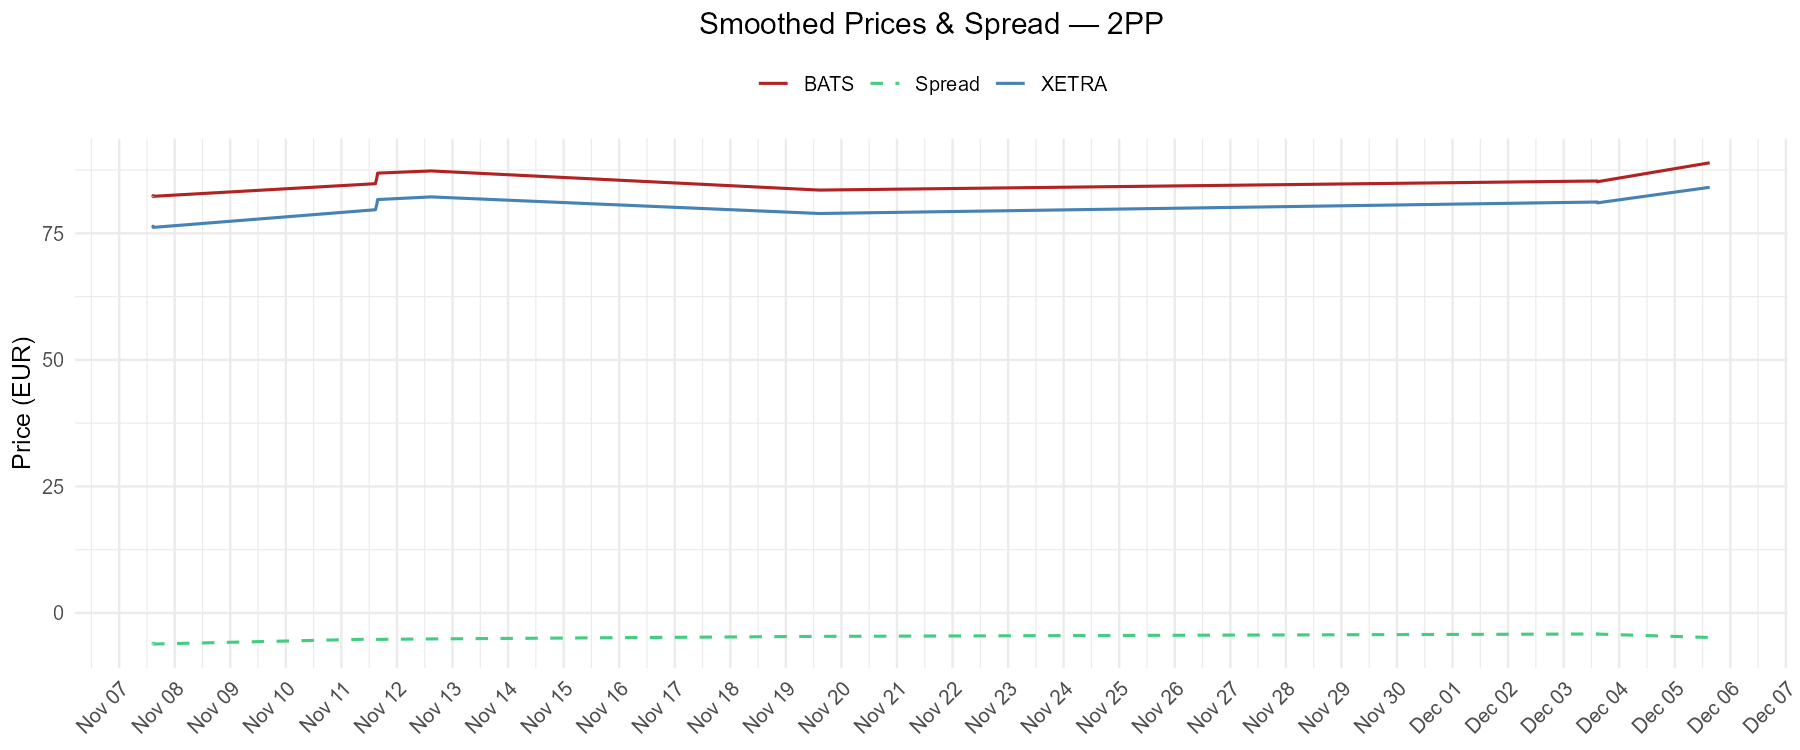
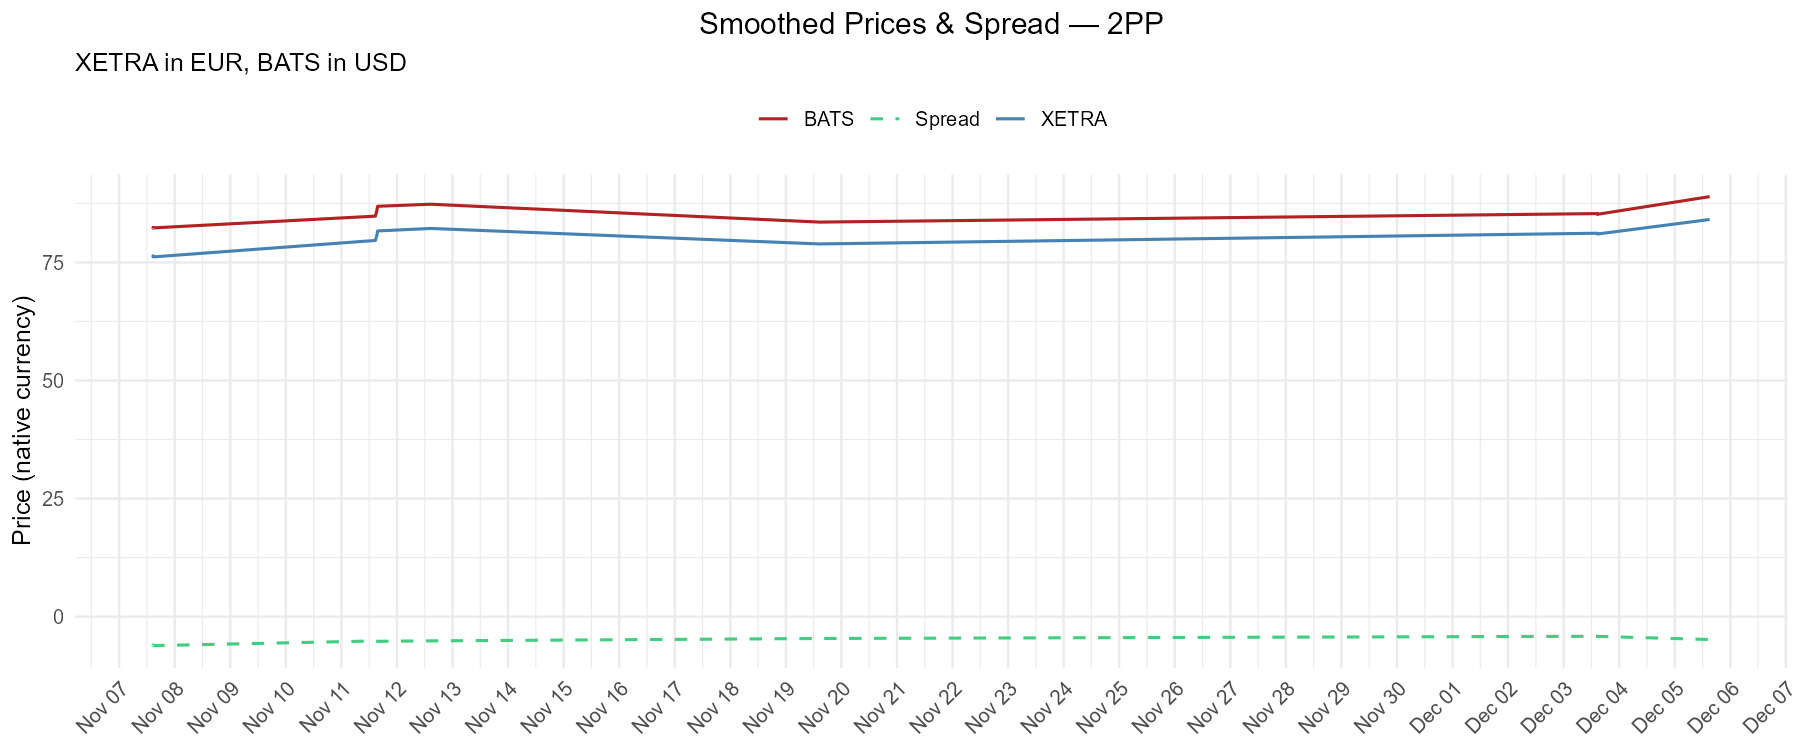
Reframe as cross-Atlantic XETRA vs Cboe BZX; correct currency labels

diff --git a/README.md b/README.md
@@ -1,33 +1,39 @@
-# Cross-Exchange Price Discovery: XETRA vs BATS Europe
+# Cross-Atlantic Price Discovery: XETRA vs BATS
 
 Empirical application of Pascual, Pascual-Fuster & Climent (2006), *"Cross-listing, price discovery and the informativeness of the trading process,"* Journal of Financial Markets, 9(2), 144–161.
+
+The data here pairs **XETRA (Frankfurt, EUR-quoted)** with **Cboe BZX — "US BATS" — (USD-quoted)** for six dual-listed stocks. The two venues only trade simultaneously during the US open, so the analysis is restricted to that overlap window.
 
 ---
 
 ## What the paper asks
 
-When the same stock trades on two markets simultaneously — say, Tesla on Frankfurt's XETRA and on BATS Europe — which venue leads price discovery? Does the European exchange set the price that the other venue follows, or does information flow the other way?
+When the same stock trades on two markets — e.g. Tesla on Frankfurt's XETRA and on a US venue like Cboe BZX — which venue leads price discovery during the overlap? Does the European exchange set the price that the US venue follows, or does information flow the other way?
 
-Pascual et al. build on Hasbrouck's (1995) information-share framework to separate two sources of cross-market information asymmetry: shocks that originate *from trading* (informed investors choosing where to execute) and shocks that are *trade-unrelated* (public news, macro announcements). Their empirical counterpart is a Vector Error Correction model that explicitly identifies the unexpected, informative component of each venue's order flow.
+Pascual et al. study NYSE-listed Spanish stocks that also trade on the Spanish SSE and find that, despite NYSE's much larger volume, the SSE contributes 12–30% of price discovery while the NYSE listing has almost no informative trades. They build on Hasbrouck's (1995) information-share framework and separate two sources of cross-market information asymmetry: shocks that originate *from trading* (informed investors choosing where to execute) and shocks that are *trade-unrelated* (public news, macro announcements). Their empirical counterpart is a Vector Error Correction model that explicitly identifies the unexpected, informative component of each venue's order flow.
 
 The key insight is that a market can have high quoting activity and still contribute nothing to price discovery — what matters is whether its *trades* carry information. A pure satellite market has an uninformative trading process: prices there adjust to the dominant venue rather than the other way around.
 
 > "A pure satellite market has an uninformative trading process that cannot shed light on the interpretation of public information."
 > — Pascual, Pascual-Fuster & Climent (2006), p. 146
 
+This project replicates the spirit of that question for a different cross-listing pattern: US-headquartered stocks (plus SAP) traded on both XETRA in Frankfurt and Cboe BZX in the US, observed at 30-second resolution.
+
 ---
 
 ## What this project does
 
-- Loads 30-second OHLCV bars from XETRA and BATS Europe for six dual-listed stocks (Tesla/TL0, Microsoft/MSF, Amazon/AMZ, SAP, NVIDIA/NVD, PayPal/2PP) over a one-month window (November–December 2024).
-- Finds the common trading window across all 12 data files and aligns each series to a complete 30-second timestamp grid.
+- Loads 30-second OHLCV bars from XETRA (EUR) and Cboe BZX / US BATS (USD) for six dual-listed stocks: Tesla (XETRA: TL0 / BATS: TSLA), Microsoft (MSF / MSFT), Amazon (AMZ / AMZN), NVIDIA (NVD / NVDA), PayPal (2PP / PYPL), and SAP (SAP / SAP).
+- Finds the common trading window across all 12 data files (~Oct 31 – Dec 9, 2024) and aligns each series to a complete 30-second timestamp grid.
 - Labels bars by trading session: European-only (07:00–12:00 UTC), Pre-US Open (12:00–14:30 UTC), and US Open (14:30–21:00 UTC). Analysis is restricted to the US Open overlap where both venues trade simultaneously.
-- Computes mean price deviations (XETRA − BATS) per session with error bars.
+- Computes mean price deviations (XETRA − BATS) per session.
 - Runs ADF stationarity tests on price levels to confirm prices are I(1).
 - Tests for cointegration via Engle-Granger (residual ADF) and Johansen trace test, and documents the results honestly — including that Johansen fails to reject H₀ at standard lags for this data.
 - Runs Granger causality tests (lag 5 = 2.5 minutes) in both directions for all six pairs.
 - Produces scatter plots and smoothed time-series plots of prices and spreads across the full window.
 - Fits VAR models (AIC lag selection) on log returns and reports residual correlations and R² by venue.
+
+> **A note on currency.** XETRA prices are in EUR; BATS prices are in USD. The script does not convert to a common currency, so any test or statistic computed on **price levels** (the mean deviation, Engle-Granger, Johansen, Granger on levels) is implicitly absorbing the EUR/USD exchange rate. The **log-return** results in Sections 9–10 are scale-invariant and unaffected by this — they are the primary results of the project; the level-based tests are reported as descriptive complements.
 
 ---
 
@@ -37,7 +43,7 @@ The key insight is that a market can have high quoting activity and still contri
 
 ![Mean price deviations](figures/mean_price_deviations.png)
 
-All deviations are negative during the US Open: XETRA prices are systematically below BATS prices for all six stocks, ranging from −4.7 EUR (PayPal) to −22.4 EUR (Microsoft). The magnitudes reflect absolute price-level differences between the two venues rather than a pure arbitrage signal — both platforms price the same underlying in EUR, but at slightly different levels, consistent with fragmented liquidity and asynchronous quote updates across venues.
+All deviations are negative during the US Open: the EUR-quoted XETRA close is systematically below the USD-quoted BATS close, ranging from about −5 (PayPal) to −22 (Microsoft). Roughly 5–6% of the price level, which is essentially the EUR/USD differential in late 2024 (~$1.05/€). The "deviation" here is therefore **not** a microstructure signal — it is dominated by the unit mismatch. It is shown as a sanity check on the alignment, not as a price-discovery result.
 
 ### ADF stationarity tests
 
@@ -49,38 +55,46 @@ Price levels are non-stationary (high p-values, fail to reject H₀) for all sto
 
 ![Granger causality](figures/granger_causality.png)
 
-Key findings at lag 5 (= 2.5 minutes, tested on price levels):
+Key findings at lag 5 (= 2.5 minutes), tested on price levels:
 
 | Stock | XETRA → BATS | BATS → XETRA | Interpretation |
 |-------|:---:|:---:|----------------|
 | MSF (Microsoft) | ✓ p = 0.029 | ✓ p = 0.007 | Bidirectional |
 | TL0, NVD, SAP, AMZ, 2PP | — | — | No significant lead |
 
-Microsoft is the only pair with detectable Granger causality at the 5% level, and it runs in both directions — price movements on either venue carry predictive information for the other over a 2.5-minute horizon. The remaining five stocks show no significant lead-lag relationship at this frequency when tested on price levels.
+Microsoft is the only pair with detectable Granger causality on price levels at the 5% level, and it runs in both directions over a 2.5-minute horizon. The remaining five stocks show no significant lead-lag relationship on levels. As above, level-based tests across two currencies should be read carefully — the log-return VAR (Section 9 of the script) is the more reliable view.
 
-Note: Granger causality on I(1) price levels can be unreliable. The VAR analysis in Section 9, run on stationary log returns, provides a more granular picture: SAP's BATS return equation shows strong XETRA predictors across multiple lags (R² = 0.054 vs 0.009 for the XETRA equation), and for NVD and TL0 the XETRA equation is substantially more predictable from past cross-venue returns than the BATS equation.
+### Scatter plots — XETRA vs BATS prices (US Open)
 
-### Scatter plots — XETRA vs BATS prices
-
-| TL0 | NVD | SAP |
+| TL0 | MSF | AMZ |
 |:---:|:---:|:---:|
-| ![](figures/scatter_TL0.png) | ![](figures/scatter_NVD.png) | ![](figures/scatter_SAP.png) |
+| ![](figures/scatter_TL0.png) | ![](figures/scatter_MSF.png) | ![](figures/scatter_AMZ.png) |
 
-Strong linear co-movement during the US Open session across all pairs, consistent with the two venues pricing the same fundamental value.
+| NVD | SAP | 2PP |
+|:---:|:---:|:---:|
+| ![](figures/scatter_NVD.png) | ![](figures/scatter_SAP.png) | ![](figures/scatter_2PP.png) |
+
+Strong linear co-movement during the US Open across all six pairs, consistent with the two venues pricing the same fundamental value (modulo the EUR/USD scale on the y-axis).
 
 ### Smoothed time series
 
-| TL0 | SAP |
-|:---:|:---:|
-| ![](figures/timeseries_TL0.png) | ![](figures/timeseries_SAP.png) |
+| TL0 | MSF | AMZ |
+|:---:|:---:|:---:|
+| ![](figures/timeseries_TL0.png) | ![](figures/timeseries_MSF.png) | ![](figures/timeseries_AMZ.png) |
 
-The dashed green line is the XETRA − BATS spread. Spreads widen around market open and during high-volatility periods, then revert — consistent with transient information asymmetry between venues.
+| NVD | SAP | 2PP |
+|:---:|:---:|:---:|
+| ![](figures/timeseries_NVD.png) | ![](figures/timeseries_SAP.png) | ![](figures/timeseries_2PP.png) |
 
-### VAR residual correlations
+Blue is XETRA (EUR), red is BATS (USD), dashed green is the XETRA − BATS gap. The gap level reflects the EUR/USD exchange rate; its short-term variation around that level reflects venue-specific price moves that haven't yet propagated.
+
+### VAR residual correlations and R² by venue
 
 ![Residual correlations](figures/residual_correlations.png)
 
-Residual correlations range from ~0.64 (PayPal) to ~0.82 (Tesla, NVIDIA), reflecting how tightly the two venues co-move after controlling for lagged returns. Higher correlation indicates more synchronised order flow.
+![R² comparison](figures/r_squared_comparison.png)
+
+Residual correlations between the two venues' log returns range from ~0.64 (PayPal) to ~0.82 (Tesla, NVIDIA), reflecting how tightly the two listings co-move after controlling for lagged returns. The R² panel shows how much of each venue's current 30-second log return is explained by past cross-venue returns — for SAP the BATS equation has substantially higher R² (≈0.054) than the XETRA equation (≈0.009), meaning XETRA returns help predict BATS returns more than the reverse. NVD and TL0 show the opposite asymmetry, with the XETRA equation more predictable from past cross-venue returns.
 
 ---
 
@@ -88,13 +102,13 @@ Residual correlations range from ~0.64 (PayPal) to ~0.82 (Tesla, NVIDIA), reflec
 
 The analysis follows a two-stage approach grounded in Pascual et al.'s framework.
 
-**Stage 1 — price levels.** XETRA and BATS closing prices are modelled as I(1) processes. The Engle-Granger two-step test regresses BATS prices on XETRA prices and applies an ADF test to the residuals; stationary residuals indicate cointegration. The Johansen trace test provides a multivariate complement. For 30-second intraday series over a one-month window, the Johansen test fails to reject H₀ (no cointegration) for all six pairs. The Engle-Granger test finds evidence of cointegration for Microsoft (p = 0.022) but not for the other five stocks. These results are consistent with the short observation period and the dominance of microstructure noise at high frequency, which tends to obscure mean-reversion dynamics.
+**Stage 1 — price levels.** XETRA and BATS closing prices are modelled as I(1) processes. The Engle-Granger two-step test regresses BATS on XETRA prices and applies an ADF test to the residuals; stationary residuals indicate cointegration. The Johansen trace test provides a multivariate complement. For 30-second intraday series over a one-month window, the Johansen test fails to reject H₀ (no cointegration) for all six pairs. The Engle-Granger test finds evidence of cointegration for Microsoft (p = 0.022) but not for the other five stocks. These results are consistent with the short observation period and the dominance of microstructure noise at high frequency, which tends to obscure mean-reversion dynamics. They are also, to be transparent, run on series in different currencies: the cointegrating slope absorbs an FX component, so the test is closer to "does an EUR/USD-implicit linear relationship hold?" than to "does a parity relationship hold?".
 
-**Stage 2 — log returns.** The VAR is estimated on log returns Δlog(P), which are stationary by construction:
+**Stage 2 — log returns.** The VAR is estimated on log returns Δlog(P), which are stationary by construction and are the primary results of the project:
 
 $$\Delta \log P_t = \sum_{k=1}^{p} A_k \, \Delta \log P_{t-k} + \varepsilon_t$$
 
-where $P_t = (\text{XETRA}_t, \text{BATS}_t)'$, $A_k$ are $2 \times 2$ coefficient matrices, and $\varepsilon_t$ is the residual vector. The lag order $p$ is selected by AIC (search over $p = 1, \ldots, 10$). Granger causality is tested via an F-test on the null that all lags of one venue's returns have zero coefficients in the other venue's equation.
+where $P_t = (\text{XETRA}_t, \text{BATS}_t)'$, $A_k$ are $2 \times 2$ coefficient matrices, and $\varepsilon_t$ is the residual vector. The lag order $p$ is selected by AIC (search over $p = 1, \ldots, 10$). Granger causality is tested via an F-test on the null that all lags of one venue's returns have zero coefficients in the other venue's equation. Because log returns are scale-invariant, the EUR/USD level mismatch does not contaminate this stage; the only residual FX effect is the small Δlog(EUR/USD) increment, which on 30-second intervals is several orders of magnitude smaller than the underlying stock-return innovation.
 
 ---
 
@@ -122,13 +136,13 @@ xetra-bats-price-discovery/
 ├── README.md
 ├── .gitignore
 ├── data/                          # 30-second OHLCV bars (committed)
-│   ├── BATS_AMZN, 30S.csv
+│   ├── BATS_AMZN, 30S.csv         # Cboe BZX, USD
 │   ├── BATS_MSFT, 30S.csv
 │   ├── BATS_NVDA, 30S.csv
 │   ├── BATS_PYPL, 30S.csv
 │   ├── BATS_SAP, 30S.csv
 │   ├── BATS_TSLA, 30S.csv
-│   ├── XETR_DLY_2PP, 30S.csv
+│   ├── XETR_DLY_2PP, 30S.csv      # XETRA Frankfurt, EUR
 │   ├── XETR_DLY_AMZ, 30S-2.csv
 │   ├── XETR_DLY_MSF, 30S.csv
 │   ├── XETR_DLY_NVD, 30S-2.csv
@@ -138,8 +152,10 @@ xetra-bats-price-discovery/
     ├── mean_price_deviations.png
     ├── adf_tests.png
     ├── granger_causality.png
-    ├── scatter_TL0.png  … scatter_2PP.png
-    ├── timeseries_TL0.png  … timeseries_2PP.png
+    ├── scatter_TL0.png, scatter_MSF.png, scatter_AMZ.png,
+    │   scatter_NVD.png, scatter_SAP.png, scatter_2PP.png
+    ├── timeseries_TL0.png, timeseries_MSF.png, timeseries_AMZ.png,
+    │   timeseries_NVD.png, timeseries_SAP.png, timeseries_2PP.png
     ├── residual_correlations.png
     └── r_squared_comparison.png
 ```
@@ -151,4 +167,5 @@ xetra-bats-price-discovery/
 - Pascual, R., Pascual-Fuster, B., & Climent, F. (2006). Cross-listing, price discovery and the informativeness of the trading process. *Journal of Financial Markets*, 9(2), 144–161. https://doi.org/10.1016/j.finmar.2006.01.002
 - Hasbrouck, J. (1995). One security, many markets: Determining the contributions to price discovery. *Journal of Finance*, 50(4), 1175–1199.
 - Harris, F. H., McInish, T. H., Shoesmith, G. L., & Wood, R. A. (1995). Cointegration, error correction, and price discovery on informationally linked security markets. *Journal of Financial and Quantitative Analysis*, 30(4), 563–579.
-- Data: 30-second OHLCV bars from XETRA and BATS Europe, November–December 2024 (course-provided, WU Wien Market Microstructures).
+- Amihud, Y., & Mendelson, H. (1986). Asset pricing and the bid-ask spread. *Journal of Financial Economics*, 17(2), 223–249.
+- Data: 30-second OHLCV bars from XETRA (Frankfurt) and Cboe BZX / US BATS, Oct 31 – Dec 9, 2024 (course-provided, WU Wien Market Microstructures).
